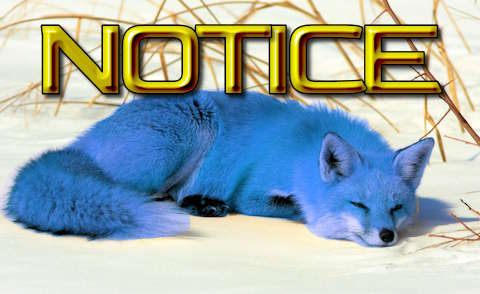
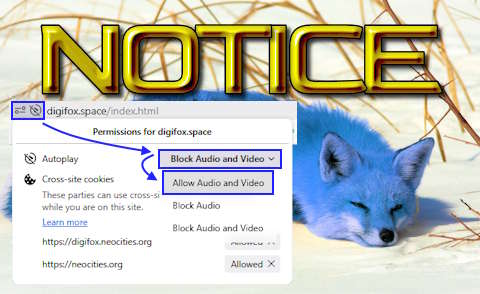
stuff

diff --git a/links/index.html b/links/index.html
@@ -26,14 +26,48 @@
     </div>
 
     <div style="margin-top: 0.15%;">
-        <marquee>Gaze upon my creations and tremble...</marquee>
+        <marquee>This is the Links page. Here's a bunch of stuff I think is cool!</marquee>
     </div>
 
     <div class="window-body" id="content">
-        <div id="linkbtn"> 
-        <img id="linkimg" src="/assets/images/linkstewbutton.gif">
-        <img id="linkness" src="/assets/images/nesspose.png">
+
+        <div class="window active" style="width: 48%; margin-right: 0.5%;">
+            <div class="title-bar">
+                <div class="title-bar-text">links.depot</div>
+            </div>
+            <div class="window-body has-space content-box" style="height: 83vh;">
+                <div class="windowpanel" style="height: 96%;">
+
+                </div> 
+            </div>
         </div>
+
+        <div class="window active" style="width: 20%;">
+            <div class="title-bar">
+                <div class="title-bar-text">friends.info</div>
+            </div>
+            <div class="window-body has-space content-box" style="height: 83vh;">
+
+                <div class="windowpanel windowfriends" style="height: 96%;">
+                    <h1>Friends</h1>
+                    <div id="friendzone">
+                        <p>LinkStew</p>
+                        <div id="linkbtn"> 
+                            <img id="linkimg" src="/assets/images/linkstewbutton.gif">
+                            <img id="linkness" src="/assets/images/nesspose.png">
+                        </div>
+                        <p>Starlight Reactor</p>
+                        <div id="starlightbtn"> 
+                            <img id="starlightimg" src="/assets/images/starlight.png">
+                            <img id="starlightwebbi" src="/assets/images/Webbiflipped.png">
+                        </div>
+                    </div>
+
+                </div> 
+
+            </div>
+        </div>
+
     </div>
     
 </body>

diff --git a/links/style.css b/links/style.css
@@ -41,11 +41,19 @@ body {
     border: #8e8f8f 1px solid;
 }
 
+.windowfriends {
+    display: flex;
+    flex-direction: column;
+    justify-content: start;
+    align-items: center;
+}
+
 #linkbtn {
     display: flex;
     justify-content: center;
     align-items: center;
     image-rendering: pixelated;
+    margin-bottom:20%;
 
 }
 
@@ -62,9 +70,41 @@ body {
     transform: translate(100%, 0%);
     filter: opacity(0);
     pointer-events: none;
+    transform: all 0.5s;
+}
+
+#starlightbtn {
+    display: flex;
+    justify-content: center;
+    align-items: center;
+    image-rendering: pixelated;
 
 }
 
+#starlightbtn:hover{
+    animation: scale-up-linkbtn 0.2s ease 0s 1 normal forwards; 
+}
 
-  @keyframes scale-up-linkbtn{0% { transform: scale(1); } 100% { transform: scale(1.5) rotate(-5deg);} }
-  @keyframes scale-up-ness {0% { transform: scale(1) translate(100%, 0%); filter: opacity(0) } 100% { transform: scale(1.5) rotate(5deg) translate(100%, 0%); filter: opacity(1);} }
+#starlightimg:hover + #starlightwebbi {
+    animation: scale-up-webbi 0.15s ease 0s 1 normal forwards; 
+}
+
+#starlightwebbi {
+    position: absolute;
+    transform: translate(20%, 0%);
+    filter: opacity(0);
+    pointer-events: none;
+    transform: all 0.5s;
+}
+
+#friendzone {
+    display: flex;
+    flex-direction: column;
+    justify-content: center;
+    align-items: center;
+}
+
+
+@keyframes scale-up-linkbtn{0% { transform: scale(1); } 100% { transform: scale(1.5) rotate(-5deg);} }
+@keyframes scale-up-ness {0% { transform: scale(1.2) translate(100%, 0%); filter: opacity(0) } 100% { transform: scale(1.5) rotate(5deg) translate(100%, 0%); filter: opacity(1);} }
+@keyframes scale-up-webbi {0% { transform: scale(0.4) translate(41%, -30%); filter: opacity(0) } 100% { transform: scale(0.4) rotate(0deg) translate(41%, -30%); filter: opacity(1);} }

diff --git a/index.html b/index.html
@@ -88,9 +88,9 @@
                     <p>&emsp;This site was created with the assistance of <a href="https://khang-nd.github.io/7.css/#groupbox">7.css</a>, a CSS framework that makes it easy to build components that emulate the look and feel of Windows 7. This is actually version 2 of my website, and version 1 can be found in the archive.</p>
                 
                 <center>
-                    <br><img class="image" src="/assets/images/sleeping_fox.jpg" style="width:43%">
-                    <p>I don't have anything else to put here yet...</p>
+                    <br><img class="image" src="/assets/images/webnotice.jpg" style="width:43%">
                 </center>
+                <p>&emsp;This WebSite is enhanced with the power of SOUND! Please enable it using the address bar.</p>
 
                 </article>
                 <article role="tabpanel" id="panel-B" style="min-height: 76.5vhvh;" hidden>

diff --git a/main.js b/main.js
@@ -1,7 +1,3 @@
-window.onload() = function() {
-    generate_topbar()
-}
-
 function travel_to(destination) {
     window.location.href = destination
 }

diff --git a/style.css b/style.css
@@ -47,6 +47,7 @@ body {
     border: 1px solid #8e8f8f;
 }
 
+
 .gamecontainer {
     display: flex;
     justify-content: space-between;
